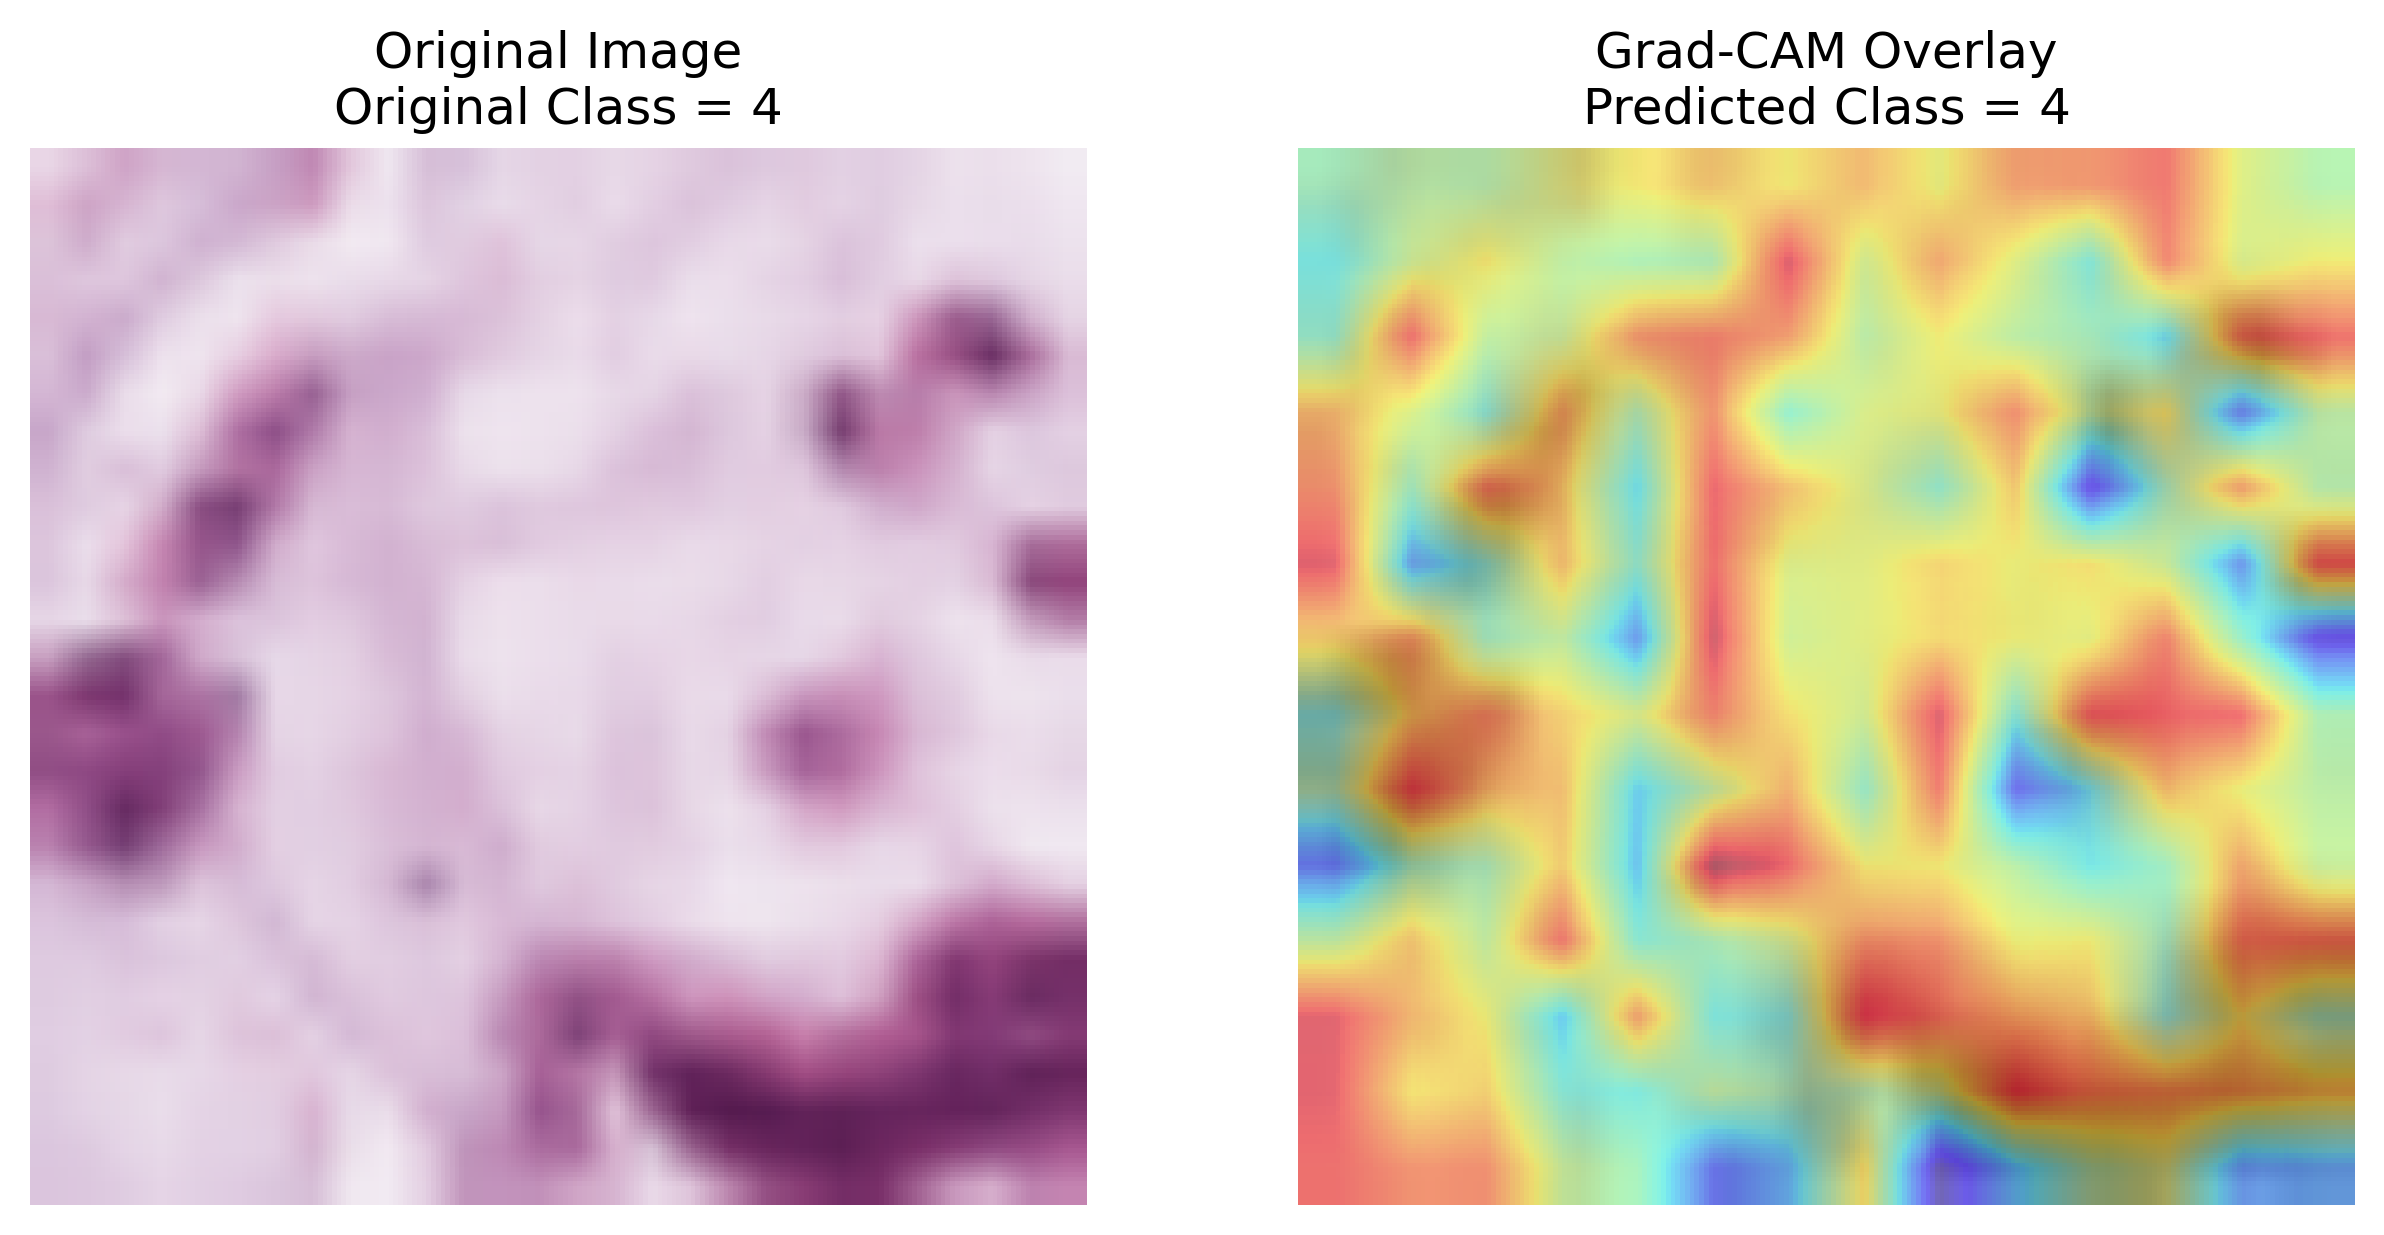
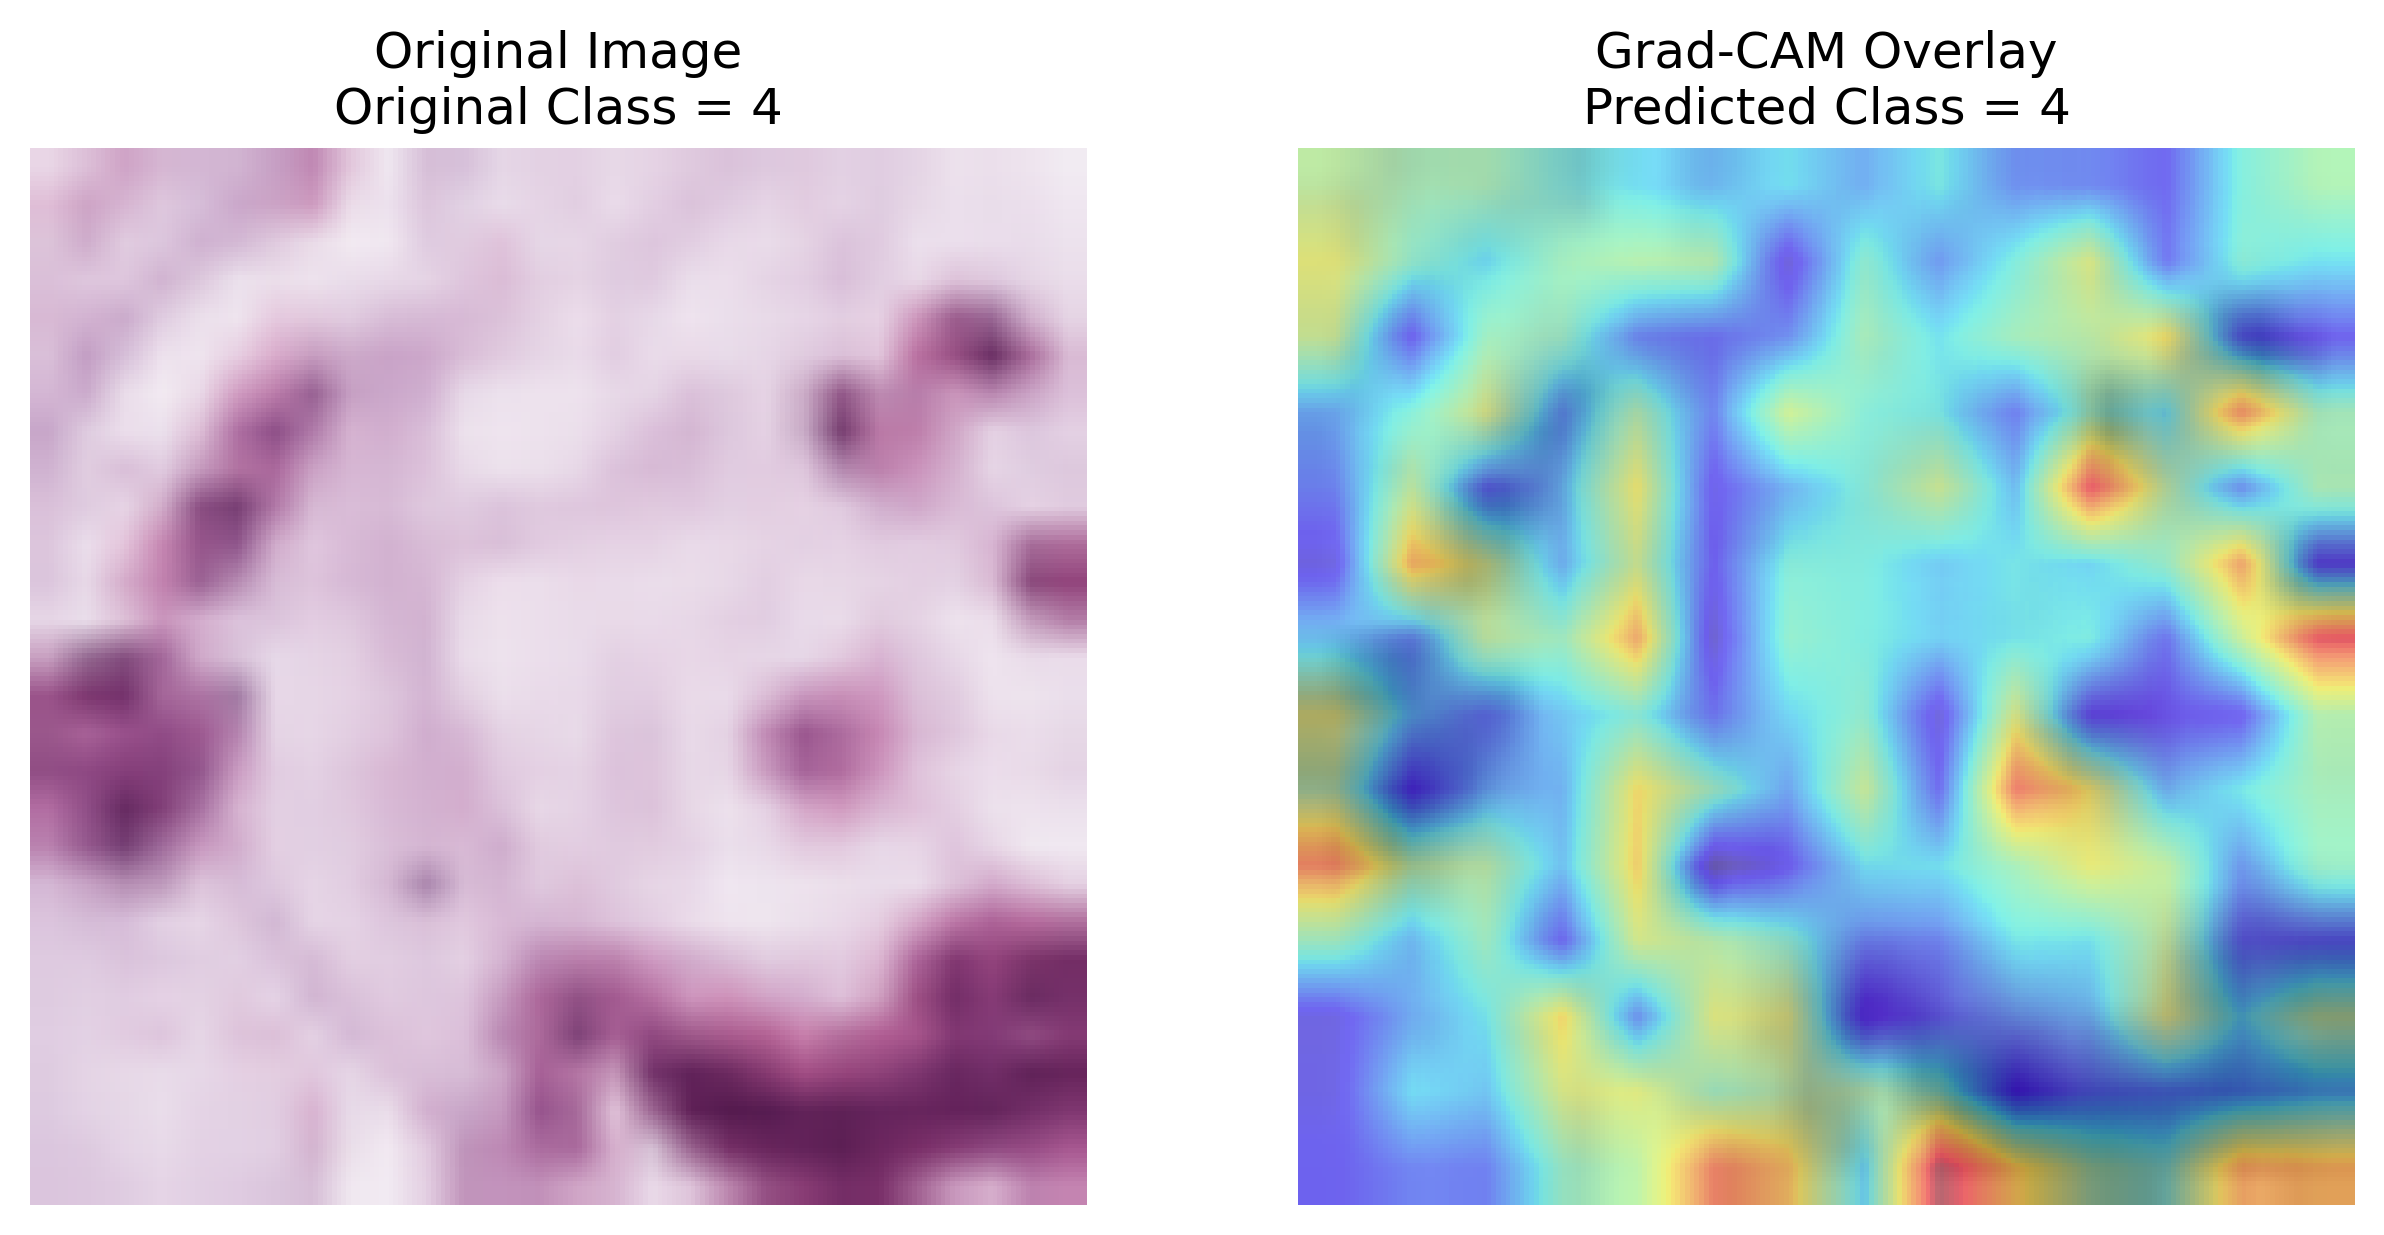
Added KD checkpoints and code

diff --git a/src/distill_utils.py b/src/distill_utils.py
@@ -3,7 +3,7 @@ import torch.nn.functional as F
 from tqdm import tqdm
 import os
 
-def distillation_loss(student_logits, teacher_logits, labels, alpha=0.7, temperature=4.0):
+def distillation_loss(student_logits, teacher_logits, labels, alpha=0.5, temperature=4.0):
     # Soft targets (distillation)
     kd_loss = F.kl_div(
         F.log_softmax(student_logits / temperature, dim=1),
@@ -16,7 +16,7 @@ def distillation_loss(student_logits, teacher_logits, labels, alpha=0.7, tempera
     
     return alpha * kd_loss + (1 - alpha) * ce_loss
 
-def train_one_epoch_distillation(student_model, teacher_model, loader, optimizer, device, alpha=0.7, temperature=4.0):
+def train_one_epoch_distillation(student_model, teacher_model, loader, optimizer, device, alpha=0.5, temperature=4.0):
     student_model.train()
     teacher_model.eval()
     running_loss = 0.0
@@ -66,7 +66,7 @@ def evaluate_distillation(student_model, teacher_model, loader, device):
     acc = correct / total
     return avg_loss, acc
 
-def run_training_distillation(student_model, teacher_model, train_loader, val_loader, optimizer, device, alpha=0.7, temperature=4.0, epochs=10, 
+def run_training_distillation(student_model, teacher_model, train_loader, val_loader, optimizer, device, alpha=0.5, temperature=4.0, epochs=10, 
                               scheduler=None, save_path='checkpoint.pth', resume=False, patience=3):
     best_acc = 0.0
     start_epoch = 0

diff --git a/src/gradcam.py b/src/gradcam.py
@@ -55,6 +55,6 @@ def vit_gradcam(model, input_tensor, target_layer, class_idx=None):
 
     # Resize CAM to 224x224
     cam_img = Image.fromarray(np.uint8(cam * 255)).resize((224, 224), resample=Image.BILINEAR)
-    cam_img = 255 - np.array(cam_img)
+    cam_img = np.array(cam_img)
 
     return cam_img, class_idx
